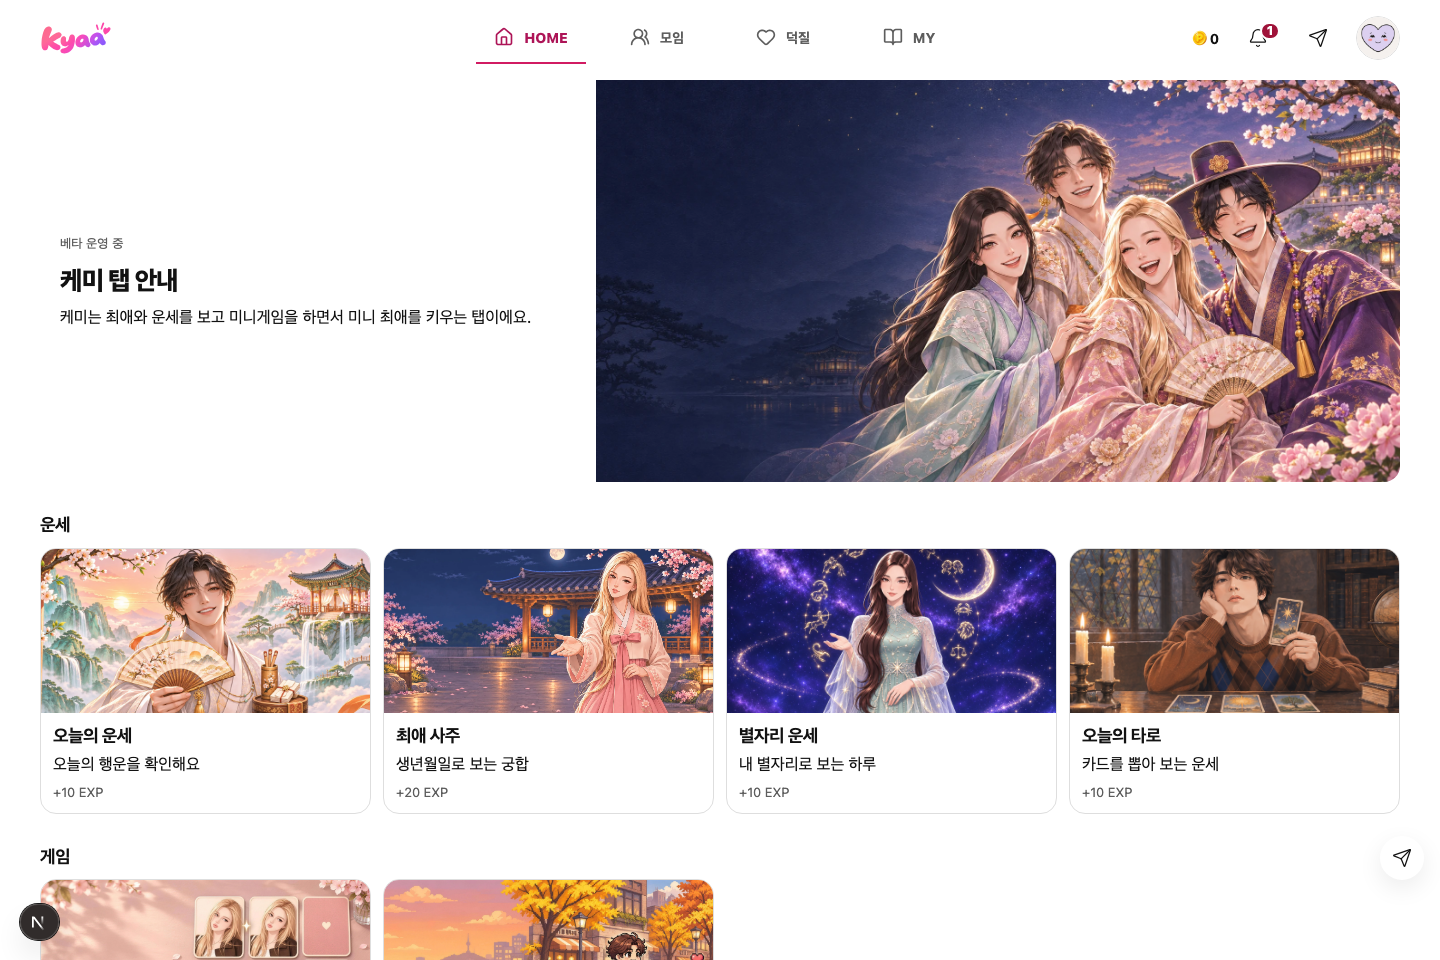
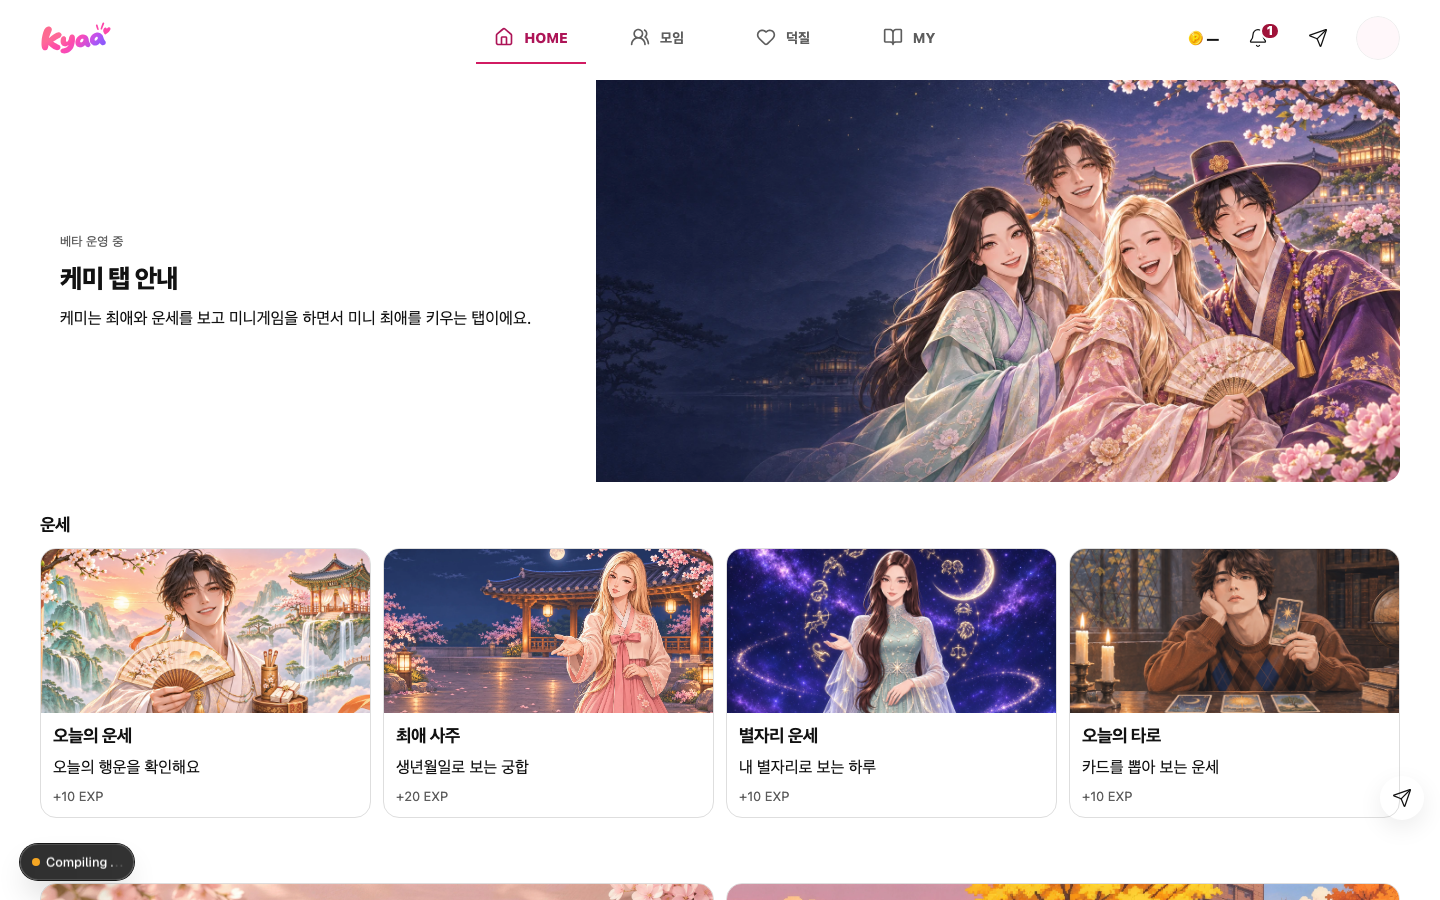
Refine Chemi guide card layout and tap targets

diff --git a/apps/web/app/guide/chemi/page.tsx b/apps/web/app/guide/chemi/page.tsx
@@ -64,7 +64,7 @@ export default async function ChemiGuidePage({ searchParams }: Props) {
         <div className={styles.copy}>
           <FanText role="meta">{t.beta}</FanText>
           <FanHeading as="h1">{t.title}</FanHeading>
-          <FanText>{t.intro}</FanText>
+          <FanText role="body">{t.intro}</FanText>
         </div>
         <Image unoptimized className={styles.hero} src="/chemi/chemi-promo.webp" width={1774} height={887} priority alt="" />
       </header>
@@ -75,7 +75,7 @@ export default async function ChemiGuidePage({ searchParams }: Props) {
             <div className={styles.art}><Image unoptimized src={`/chemi/${art[key]}`} fill sizes="(min-width: 768px) 25vw, 50vw" alt="" /></div>
             <div className={styles.cardCopy}>
               <FanHeading as="h3"><a href={`${href}?locale=${locale}`}>{names[key]}</a></FanHeading>
-              <FanText>{names.descriptions[key]}</FanText>
+              <FanText role="body">{names.descriptions[key]}</FanText>
               <FanText role="meta">+{EARN[key][1]} EXP</FanText>
             </div>
           </article>)}
@@ -83,15 +83,15 @@ export default async function ChemiGuidePage({ searchParams }: Props) {
       </section>)}
       <section className={styles.panel}>
         <FanHeading>{t.points}</FanHeading>
-        <FanText>{t.games}</FanText>
-        <FanText>{t.dates}</FanText>
+        <FanText role="body">{t.games}</FanText>
+        <FanText role="body">{t.dates}</FanText>
       </section>
       <section className={styles.growth}>
         <Image unoptimized src="/chemi/grow/room-changha-v2.webp" width={320} height={320} alt="" />
         <div className={styles.copy}>
           <FanHeading>{t.growth}</FanHeading>
-          <FanText>{t.growthDetail}</FanText>
-          <FanText>{t.album}</FanText>
+          <FanText role="body">{t.growthDetail}</FanText>
+          <FanText role="body">{t.album}</FanText>
         </div>
       </section>
       <FanAction variant="primary" size="lg" href={`/chemi?locale=${locale}`}>{t.start}</FanAction>

diff --git a/apps/web/app/guide/chemi/page.module.css b/apps/web/app/guide/chemi/page.module.css
@@ -21,6 +21,7 @@
 .hero { display: block; width: 100%; height: auto; }
 .grid { display: grid; grid-template-columns: repeat(2, minmax(0, 1fr)); gap: var(--space-3); }
 .card {
+  position: relative;
   display: flex;
   flex-direction: column;
   overflow: hidden;
@@ -32,6 +33,7 @@
 .art img { object-fit: cover; object-position: center 35%; }
 .cardCopy { display: grid; flex: 1; gap: var(--space-2); padding: var(--space-3); grid-template-rows: auto 1fr auto; }
 .cardCopy a { color: inherit; text-underline-offset: 0.15em; }
+.cardCopy a::after { content: ""; position: absolute; inset: 0; }
 .panel { background: var(--color-soft); border-radius: var(--radius-card); padding: var(--space-5); }
 .growth img { width: 100%; max-width: 320px; height: auto; border-radius: var(--radius-card); }
 .page > a { justify-self: start; }
@@ -39,5 +41,5 @@
 @media (min-width: 48rem) {
   .intro { grid-template-columns: 2fr 3fr; }
   .growth { grid-template-columns: minmax(0, 320px) 1fr; }
-  .grid { grid-template-columns: repeat(4, minmax(0, 1fr)); }
+  .grid:has(> :nth-child(3)) { grid-template-columns: repeat(4, minmax(0, 1fr)); }
 }

diff --git a/DESIGN.md b/DESIGN.md
@@ -337,7 +337,7 @@ radius-scale: "pill / 16px / 12px / 8px / 50%"
 
 홍보 팝업은 기존 PageNoticeDialog와 어드민 예약 기간을 공유한다. 페이지 고유 안내, 회원 이벤트, 케미 홍보 순서로 표시한다. 이미 연 팝업은 사용자가 닫거나 기간이 끝날 때까지 유지하며 페이지 고유 안내는 우선 표시한다. 오늘 숨기기는 한국 자정, 일주일 숨기기는 선택한 시각에서 168시간 뒤까지다.
 
-케미 안내는 공통 앱 셸과 FanHeading·FanText·FanAction을 사용한다. 그림 카드는 390px에서 2열, 768px부터 4열이며 같은 줄의 카드 길이와 마지막 EXP 줄을 맞춘다. 포인트 조건은 본문으로 설명하고 ‘케미 시작하기’를 주 버튼으로 둔다.
+케미 안내는 공통 앱 셸과 FanHeading·FanText·FanAction을 사용한다. 그림 카드는 390px에서 2열, 768px부터 운세는 4열이고 게임은 2열이며 같은 줄의 카드 길이와 마지막 EXP 줄을 맞춘다. 포인트 조건은 본문으로 설명하고 ‘케미 시작하기’를 주 버튼으로 둔다.
 
 ### 케미 추가 날짜 운세
 
